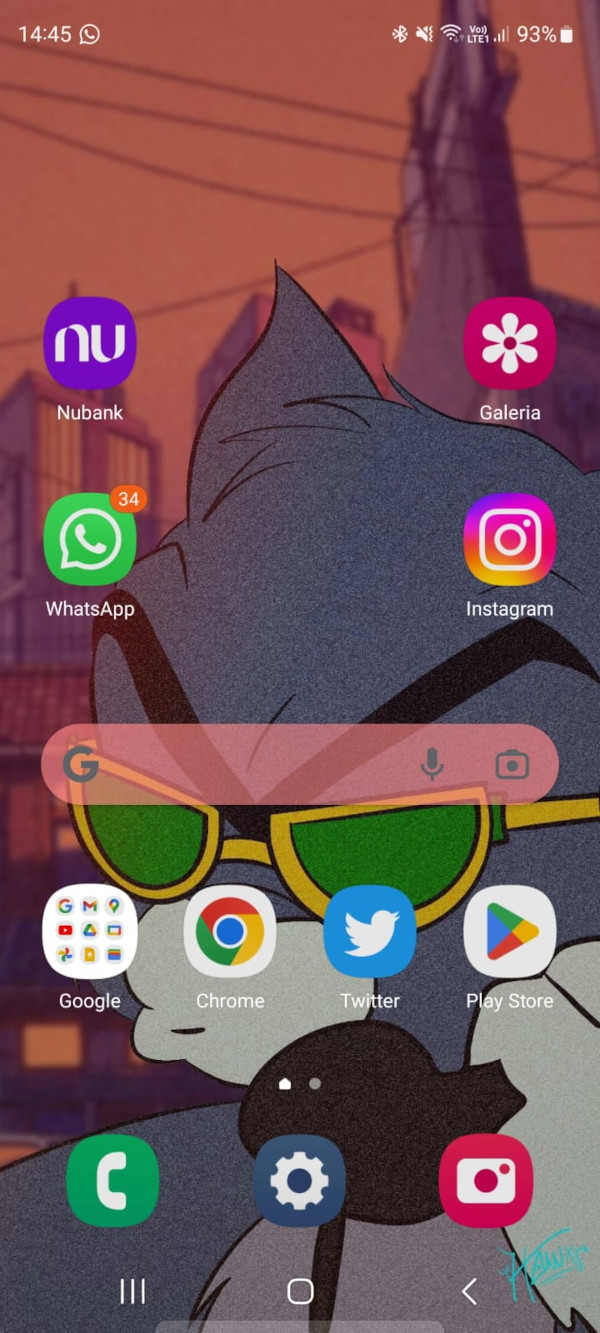
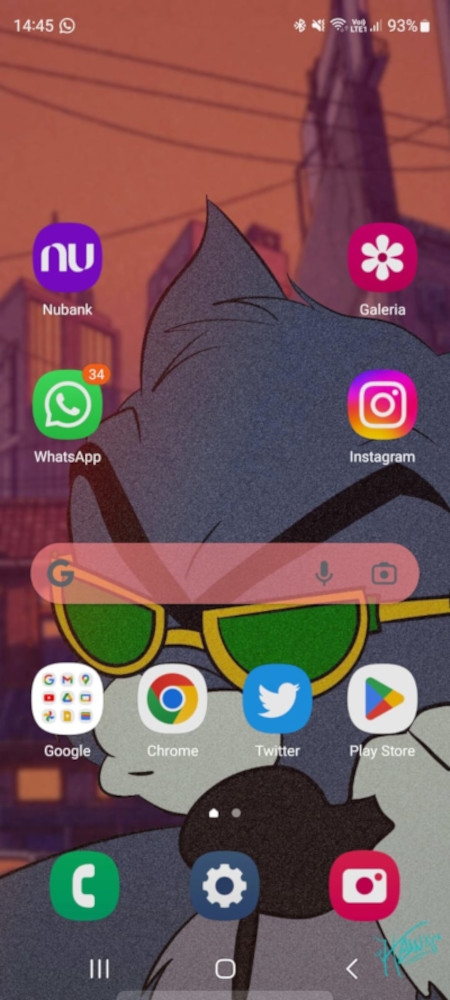
finalização do projeto

diff --git a/facebook.html b/facebook.html
@@ -6,9 +6,28 @@
     <meta name="viewport" content="width=device-width, initial-scale=1.0">
     <link rel="stylesheet" href="estilos/social.css">
     <title>Facebook</title>
+    <style>
+        body h1{
+            text-align: center;
+            color: white;
+            padding: 10px;
+            margin: 10px;
+            font-family: Arial, Helvetica, sans-serif;
+        }
+
+        body p{
+            color: white;
+            text-shadow: 1px 1px rgba(255, 0, 0, 0.575);
+            font-family: Arial, Helvetica, sans-serif;
+            padding: 10px;
+        }
+    </style>
 </head>
 <body>
-    <img src="imagens/tela-facebook.jpg" alt="facebook">
+    <!--<img src="imagens/tela-facebook.jpg" alt="facebook">-->
+    <h1>Error404</h1>
+    <p>Facebook não existente.</p>
+    <br>
     <a href="#">ACESSE</a>
 </body>
 </html>

diff --git a/instagram.html b/instagram.html
@@ -6,9 +6,25 @@
     <meta name="viewport" content="width=device-width, initial-scale=1.0">
     <link rel="stylesheet" href="estilos/social.css">
     <title>Instagram</title>
+    <style>
+        a{
+    display: block;
+    background-image: linear-gradient(to right, #f2c36d73, #d9307f73, #d9329f73, #5274d973);
+    color: white;
+    padding: 20px;
+    text-align: center;
+    font-weight: bolder;
+    text-decoration: none;
+    font-size: 1em;
+}
+
+a:hover{
+    background-image: linear-gradient(to right, #F2C46D, #d9307f, #D9329E, #5274D9);
+}
+    </style>
 </head>
 <body>
-    <img src="imagens/tela-instagram.jpg" alt="Instagram">
-    <a href="#" target="_blank">ACESSE</a>
+    <img src="imagens/instagram-tela.jpeg" alt="Instagram">
+    <a href="https://www.instagram.com/lucasvigano1/" target="_blank">ACESSE</a>
 </body>
 </html>

diff --git a/twitter.html b/twitter.html
@@ -6,9 +6,28 @@
     <meta name="viewport" content="width=device-width, initial-scale=1.0">
     <link rel="stylesheet" href="estilos/social.css">
     <title>Twitter</title>
+    <style>
+        body h1{
+            text-align: center;
+            color: white;
+            padding: 10px;
+            margin: 10px;
+            font-family: Arial, Helvetica, sans-serif;
+        }
+
+        body p{
+            color: white;
+            text-shadow: 1px 1px rgba(255, 0, 0, 0.575);
+            font-family: Arial, Helvetica, sans-serif;
+            padding: 10px;
+        }
+    </style>
 </head>
 <body>
-    <img src="imagens/tela-twitter.jpg" alt="twitter">
+    <!--<img src="imagens/tela-twitter.jpg" alt="twitter">-->
+    <h1>Error404</h1>
+    <p>Twitter não existente</p>
+    <br>
     <a href="#">ACESSE</a>
 </body>
 </html>

diff --git a/github.html b/github.html
@@ -6,9 +6,25 @@
     <meta name="viewport" content="width=device-width, initial-scale=1.0">
     <link rel="stylesheet" href="estilos/social.css">
     <title>GitHub</title>
+    <style>
+       a{
+    display: block;
+    background-color: rgba(23, 78, 31, 0.438);
+    color: white;
+    padding: 20px;
+    text-align: center;
+    font-weight: bolder;
+    text-decoration: none;
+    font-size: 1em;
+}
+
+a:hover{
+    background-color: green;
+}
+    </style>
 </head>
 <body>
-    <img src="imagens/tela-github.jpg" alt="GitHub">
-    <a href="#" target="_blank">ACESSE</a>
+    <img src="imagens/github-tela.jpeg" alt="GitHub">
+    <a href="https://github.com/lucasviganodasilva" target="_blank">ACESSE</a>
 </body>
 </html>

diff --git a/home.html b/home.html
@@ -15,7 +15,7 @@
     body{
         width: 100vw;
         height: 100vh;
-        background: url(imagens/tela-home.jpg) no-repeat top center;
+        background: url(imagens/tela1.jpeg) no-repeat top center;
         background-size: cover;
     }
 </style>

diff --git a/youtube.html b/youtube.html
@@ -8,7 +8,7 @@
     <title>Youtube</title>
 </head>
 <body>
-    <img src="imagens/tela-youtube.png" alt="youtube">
+    <img src="imagens/youtube-tela.png" alt="youtube">
     <a href="#" target="_blank">ACESSE</a>
 </body>
 </html>
